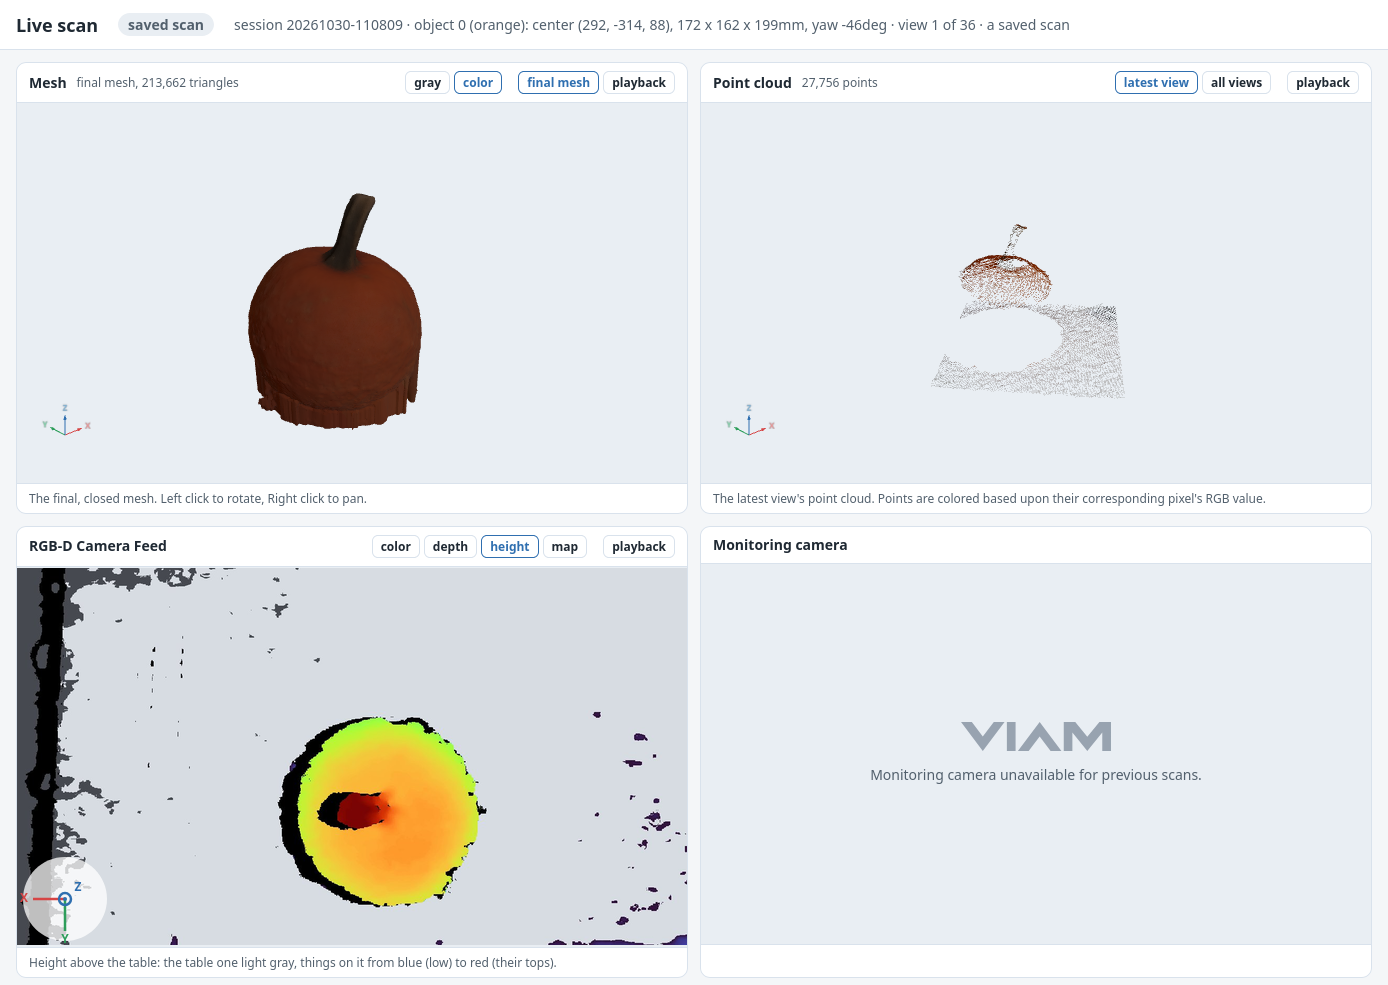
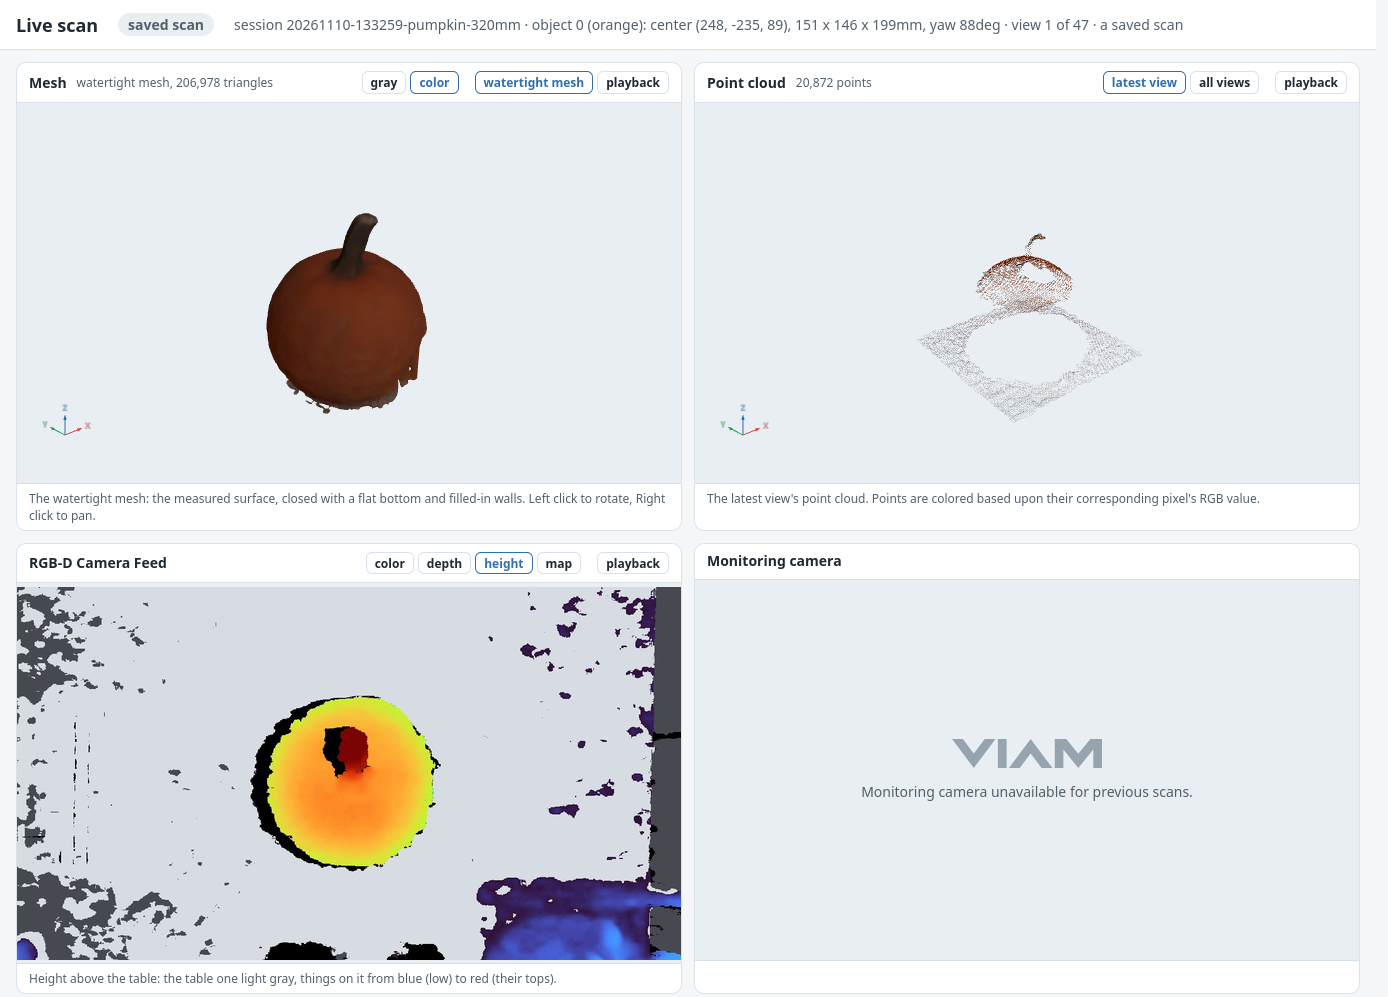
syncing changes within the new branch

diff --git a/scan.py b/scan.py
@@ -3,7 +3,7 @@
     python scan.py                  # the whole scan: asks once before the arm moves, then before each object
     python scan.py --plan-only      # plan every object on the latest survey (no motion)
     python scan.py --max-views 16   # about half the time: 16 views per object, spread over all directions
-    python scan.py --full-scan      # 50 frames per view, every raw frame saved (a dataset; about 2 min per view)
+    python scan.py --full-scan      # 50 frames per view (a dataset; about 2 min per view)
     python scan.py --frames 20      # 20 frames per view (default 5; with --full-scan, instead of 50)
     python scan.py --full-scan --resume data/20261029-155544   # finish an interrupted scan (same options)
 
@@ -532,8 +532,8 @@ def main() -> None:
                         help="continue an interrupted scan in that session folder (e.g. data/20261029-155544): "
                              "reuses its survey, checks the objects haven't moved, skips views already captured")
     parser.add_argument("--full-scan", action="store_true",
-                        help="50 frames per scan view, and every raw frame saved (a dataset to subsample later; "
-                             "about 2 minutes per view)")
+                        help="50 frames per scan view (a dataset to subsample later; about 2 minutes per view). "
+                             "Every scan saves its raw frames, full or not")
     parser.add_argument("--frames", type=int, metavar="N",
                         help="frames per scan view (default: frames_per_view in config.toml, 5; with --full-scan, "
                              "how many frames it captures and keeps instead of 50)")
@@ -566,7 +566,7 @@ def main() -> None:
     if args.full_scan:
         config.capture.frames_per_view = args.frames or config.capture.full_scan_frames
         config.capture.keep_frames = True
-        log.info("Full scan: %d frames per view, every raw frame saved (about %.0f minutes per view)",
+        log.info("Full scan: %d frames per view (about %.0f minutes per view)",
                  config.capture.frames_per_view, config.capture.frames_per_view * 2.6 / 60)
     elif args.frames:
         config.capture.frames_per_view = args.frames

diff --git a/recon/rgbd.py b/recon/rgbd.py
@@ -271,7 +271,7 @@ def save_frames(folder: Path, colors: list[bytes], depths: list[np.ndarray], col
 
 def load_view(folder: Path, frames: int | None = None, combine: str = "median",
               min_valid_fraction: float = 0.5) -> View:
-    ''' A saved view. With `frames` (a full scan's raw frames, in folder/frames/), the depth
+    ''' A saved view. With `frames` (the view's raw frames, in folder/frames/), the depth
     is rebuilt from the first `frames` of them (by default the median, exactly as a capture
     of that many frames would have made it) instead of the saved median of all of them. '''
     folder = Path(folder)
@@ -284,7 +284,7 @@ def load_view(folder: Path, frames: int | None = None, combine: str = "median",
         paths = sorted((folder / "frames").glob("depth_*.png"))
         if len(paths) < frames:
             raise ValueError(f"{folder} has {len(paths)} raw depth frames, fewer than {frames} "
-                             "(raw frames are only saved by scan.py --full-scan)")
+                             "(scans before 2026-11-10 saved raw frames only with scan.py --full-scan)")
         depth = combine_depth([np.asarray(o3d.io.read_image(str(p))).astype(np.uint16) for p in paths[:frames]],
                               combine, min_valid_fraction)
     meta = {k: v for k, v in record.items() if k not in ("T_world_cam", "intrinsics")}

diff --git a/recon/config.py b/recon/config.py
@@ -179,11 +179,12 @@ class CaptureConfig:
     # A move that finishes more than 10mm / 5deg from its target (robot.REACH_TOLERANCE_*) is
     # tried again this many times, from wherever the arm ended up, before the view is skipped.
     move_retries: int = 1
-    # `scan.py --full-scan`: this many frames per scan view, and every raw frame saved
-    # (views/view_NNN/frames/), for a dataset to subsample later. About 2.6s per frame
-    # over the cloud connection, so 50 frames take about 2 minutes per view.
+    # `scan.py --full-scan`: this many frames per scan view, for a dataset to subsample later.
+    # About 2.6s per frame over the cloud connection, so 50 frames take about 2 minutes per view.
     full_scan_frames: int = 50
-    keep_frames: bool = False
+    # Save every raw frame of every scan view (views/view_NNN/frames/), so any scan can be
+    # rebuilt from its frames and debugged later. About 0.15MB per frame (0.7MB per 5-frame view).
+    keep_frames: bool = True
 
 
 @dataclass

diff --git a/recon/figures.py b/recon/figures.py
@@ -243,7 +243,7 @@ def progression_video(views, poses, planes, obj, config, path: Path, title: str,
                   (render_points(np.asarray(cloud.points), VIDEO_PANEL, elevation, azimuth, center, radius, dot=2,
                                  colors=np.asarray(cloud.colors)), f"Cumulative point cloud ({index} view{'s' if index > 1 else ''})"),
                   (render(mesh, VIDEO_PANEL, elevation, azimuth, center, radius, use_colors=mesh.has_vertex_colors(),
-                          wire_boundary=False), "Open mesh, fused so far")]
+                          wire_boundary=False), "Cumulative open mesh")]
         sheet = Image.new("RGB", (width, height), "white")
         draw = ImageDraw.Draw(sheet)
         draw.text((width / 2, 22), title, fill=(31, 41, 51), font=font(24, True), anchor="mm")

diff --git a/recon/experiment.py b/recon/experiment.py
@@ -3,8 +3,8 @@
 object from different rigs, each measured the same way. Used by analysis/compare.py.
 
 A variant changes one or more of:
-- `frames`: rebuild each view's depth from its first k raw frames (scans made with
-  `scan.py --full-scan` keep all of them);
+- `frames`: rebuild each view's depth from its first k raw frames (every scan
+  keeps all of them; before 2026-11-10, only `scan.py --full-scan` did);
 - `mount`: re-place every view with another camera mount (a calibration to compare);
 - `views`: use only k views, spread over all directions (as `--max-views` would);
 - any setting, by its name in config.toml, e.g. `reconstruct.voxel` or `reconstruct.closing`.

diff --git a/data_viewer.py b/data_viewer.py
@@ -1,8 +1,8 @@
 ''' Watch a saved scan in the live viewer, as it looked while it ran.
 
     python data_viewer.py                       # the most recent scan
-    python data_viewer.py 20261030-100851       # a session folder in data/
-    python data_viewer.py 20261030-100851 --object 1 --seconds 2
+    python data_viewer.py 20261110-133259-pumpkin-320mm # a session folder in data/
+    python data_viewer.py 20261103-152101-bowl-280mm --object 1 --seconds 2
 
 Open the printed link. The page is the same one a scan shows (mesh, point cloud, the
 RGB-D camera's color, depth, height and map), stepping through the scan one view about

diff --git a/README.md b/README.md
@@ -89,8 +89,8 @@ For each object, it plans a set of camera viewpoints and checks that each one is
 **4. Results** are saved in `data/<scan date and time>/object_<NN>/`:
 - `recon/watertight_mesh.obj` is the final mesh. It's watertight: the measured surface, with the bottom and any gaps no view could see filled in ([§5.8](#58-closing-the-mesh)).
 - `recon/open_mesh.obj` is only the surface the camera measured (seen by at least 2 views), fused and smoothed but not closed, so it's open at the bottom and wherever no view reached.
-- `progression.png` shows how the point cloud and the meshes build up from 1 view to all of them ([§6.5](#65-how-many-views-are-needed)), and `progression_vid.mp4` (and `.gif`) plays the scan back view by view: the color image, the growing point cloud and the growing mesh, side by side.
-- `views/view_<NNN>/` holds each view: its color image (the first frame), its depth image (the per-pixel median of its frames), a colored preview of the depth, and `view.json` with the camera's pose and the arm's joints. A `--full-scan` also keeps every raw frame, in `frames/`.
+- `progression.png` shows how the point cloud and the meshes build up from 1 view to all of them ([§6.5](#65-how-many-views-are-needed)), and `progression_vid.mp4` (and `.gif`) plays the scan back view by view: the color image, the cumulative point cloud and the cumulative open mesh, side by side.
+- `views/view_<NNN>/` holds each view: its color image (the first frame), its depth image (the per-pixel median of its frames), a colored preview of the depth, and `view.json` with the camera's pose and the arm's joints. Every raw frame is kept too, in `frames/`.
 - To look at the meshes, use `data_viewer.py`, a program like Blender, or an online viewer like [3DViewer.net](https://3dviewer.net/#).
 
 ---
@@ -207,7 +207,7 @@ Every choice in these steps was compared on real scans, against caliper measurem
 ## 3. Results
 
 <p align="center">
-  <img src="media/images/progression_vid_bowl.gif" alt="Time-lapse of the 3D-printed bowl's scan, view by view: on the left, the color image of each view; in the middle, the point cloud growing as views are added; on the right, the mesh fused from every view so far, filling in from a few patches into the whole bowl" width="1000">
+  <img src="media/images/progression_vid_bowl.gif" alt="Time-lapse of the 3D-printed bowl's scan, view by view: on the left, the color image of each view; in the middle, the point cloud growing as views are added; on the right, the cumulative open mesh, filling in from a few patches into the whole bowl" width="1000">
   <br><sub><b>REAL DATA.</b> The 3D-printed bowl's full scan (46 views), played back view by view</sub>
 </p>
 
@@ -769,7 +769,7 @@ python analysis/compare.py data/<session> --vary mount=<a.json>,<b.json>        
 python analysis/compare.py data/<realsense scan> data/<orbbec scan>                     # two rigs
 ```
 
-- **What can vary:** `frames` rebuilds each view's depth from its first k raw frames, which `scan.py --full-scan` keeps (by default as the median; using all 50 reproduces the saved depth exactly). `mount` re-places every view with another camera mount, starting from the poses as captured. `views` uses a subset spread over all directions. Any setting can also be varied by its name in `config.toml`, and several `--vary` options give every combination.
+- **What can vary:** `frames` rebuilds each view's depth from its first k raw frames, which every scan keeps (by default as the median; using all 50 reproduces the saved depth exactly). `mount` re-places every view with another camera mount, starting from the poses as captured. `views` uses a subset spread over all directions. Any setting can also be varied by its name in `config.toml`, and several `--vary` options give every combination.
 - **What is measured:** how far single views lie from the fused surface ("views disagree"), roughness, volume, the measured share, the size against the calipers (`ground_truth.toml`), and, for the 3D-printed objects, the surface error against their CAD model.
 - **CAD comparison** ([`recon/cad.py`](recon/cad.py)): the printed object's STL is stood on the table where the scan found it, and the scan's measured surface is fitted onto it. The fit is rigid (rotation and shift, never scale, so a scan that's too big stays too big) and is tried from 12 starting rotations. Then every measured point's signed distance from the true surface is taken, positive outside. The figure colors the surface red where it's outside and blue where it's inside. On the CAD model itself the fit is exact, and a scan made 5% too big shows a positive bias.
 - **Two rigs:** each session records its rig's name (`[machine] rig`), which is used to label it. A second rig gets its own config file ([`config_orbbec.toml`](config_orbbec.toml) is a template) with its own address, camera names and calibration files; its home position is found by its first calibration.
@@ -815,7 +815,7 @@ To answer it, I rebuilt the full scans from 1, 2, 4, 8, 16, 32 and all of their 
 </p>
 
 <p align="center">
-  <img src="media/images/progression_vid_orange_block.gif" alt="Time-lapse of the orange block's scan, view by view: on the left, the color image of each view; in the middle, the point cloud growing as views are added; on the right, the mesh fused from every view so far" width="1000">
+  <img src="media/images/progression_vid_orange_block.gif" alt="Time-lapse of the orange block's scan, view by view: on the left, the color image of each view; in the middle, the point cloud growing as views are added; on the right, the cumulative open mesh" width="1000">
   <br><sub><b>REAL DATA.</b> The orange block's full scan (49 views), played back view by view</sub>
 </p>
 
@@ -824,8 +824,8 @@ To answer it, I rebuilt the full scans from 1, 2, 4, 8, 16, 32 and all of their 
 </p>
 
 <p align="center">
-  <img src="media/images/progression_vid_green_cylinder.gif" alt="Time-lapse of the green cylinder's scan, view by view: on the left, the color image of each view; in the middle, the point cloud growing as views are added; on the right, the mesh fused from every view so far" width="1000">
-  <br><sub><b>REAL DATA.</b> The green cylinder's full scan (50 views), played back view by view</sub>
+  <img src="media/images/progression_vid_pumpkin.gif" alt="Time-lapse of the pumpkin's scan, view by view: on the left, the color image of each view; in the middle, the point cloud growing as views are added; on the right, the cumulative open mesh" width="1000">
+  <br><sub><b>REAL DATA.</b> The pumpkin's scan (44 views, 10 frames each), played back view by view</sub>
 </p>
 
 **Why a few views leave holes.** A single view keeps everything it saw, so the 1-view mesh is the best that one view can give. From 2 views on, a mesh keeps only surface that at least 2 of its views measured, and views from very different directions share little surface: 2 views measure almost nothing, and a few views leave the open mesh full of holes until the views overlap. (`--min-views` changes the 2-view rule for every subset.)
@@ -1205,7 +1205,7 @@ Every command, whether it moves the arm, and what it does:
 | Command | Moves the arm? | What it does |
 |---|---|---|
 | `calibration.py [--plan-only] [--touch-off ask\|yes\|no]` | yes (asks first) | The whole calibration: camera (board), table (survey), gripper (touch-off, asks first). `--plan-only` plans every step without moving the arm |
-| `scan.py [--plan-only] [--max-views K] [--full-scan]` | yes | The whole scan: survey, list the objects, ask before each, scan, park over the mat, build meshes and figures, compare with the calipers where possible. `--plan-only` plans every view without moving the arm. `--max-views 16` captures 16 views spread over all directions. `--full-scan`: 50 frames per view and every raw frame saved in `views/view_NNN/frames/` (about 10MB per view), a dataset for comparing settings later ([§6.3](#63-comparing-settings-methods-and-cameras)) |
+| `scan.py [--plan-only] [--max-views K] [--full-scan]` | yes | The whole scan: survey, list the objects, ask before each, scan, park over the mat, build meshes and figures, compare with the calipers where possible. `--plan-only` plans every view without moving the arm. `--max-views 16` captures 16 views spread over all directions. `--full-scan`: 50 frames per view (every scan saves its raw frames in `views/view_NNN/frames/`; about 10MB per view at 50 frames), a dataset for comparing settings later ([§6.3](#63-comparing-settings-methods-and-cameras)) |
 | `scan.py [--full-scan] --resume data/<session>` | yes | Finish an interrupted scan in the same session: reuses its survey, moves to the home position, looks again from each started object's first view and refuses if the object moved more than 3mm, refuses if the frame settings differ from the first part, then captures only the views still missing (numbered after the existing ones) and builds the meshes from all of them |
 | `scan.py survey [--execute]` | with `--execute` | Overhead views following the table from where the camera is: objects, table plane, calibration board (then a head-on board view); without `--execute`, from the current pose |
 | `scan.py plan [--new-survey]` | no | Reachable views and coverage per object |
@@ -1224,7 +1224,7 @@ Every command, whether it moves the arm, and what it does:
 ### 9.5 View or Playback of a Scan
 
 <p align="center">
-  <img src="media/images/live_viewer.png" alt="The viewer in a browser: the pumpkin's final mesh in color; the first view's point cloud; the RGB-D camera's height view from straight above, the pumpkin's top in red, with axes in its corner; and the monitoring panel showing the Viam logo" width="1000">
+  <img src="media/images/live_viewer.png" alt="The viewer in a browser: the pumpkin's watertight mesh in color; the first view's point cloud; the RGB-D camera's height view from straight above, the pumpkin's top in orange and its stem in red; and the monitoring panel showing the Viam logo" width="1000">
   <br><sub><b>REAL DATA.</b> The pumpkin's scan in <code>data_viewer.py</code></sub>
 </p>
 
